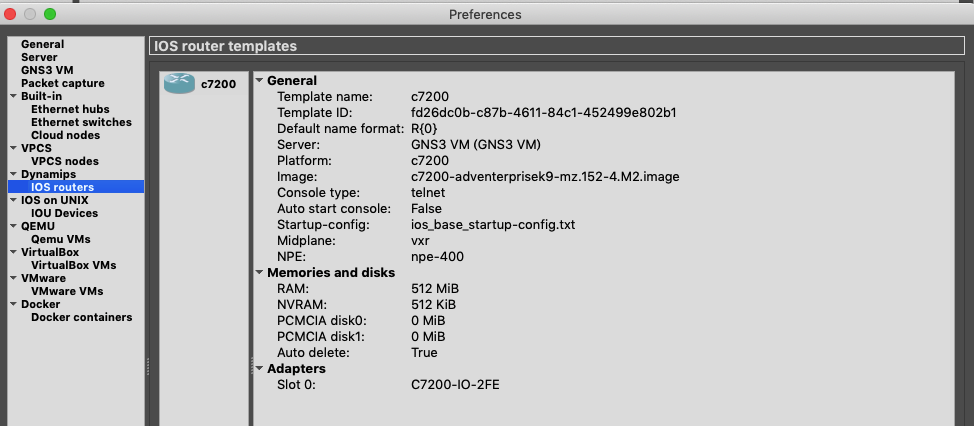
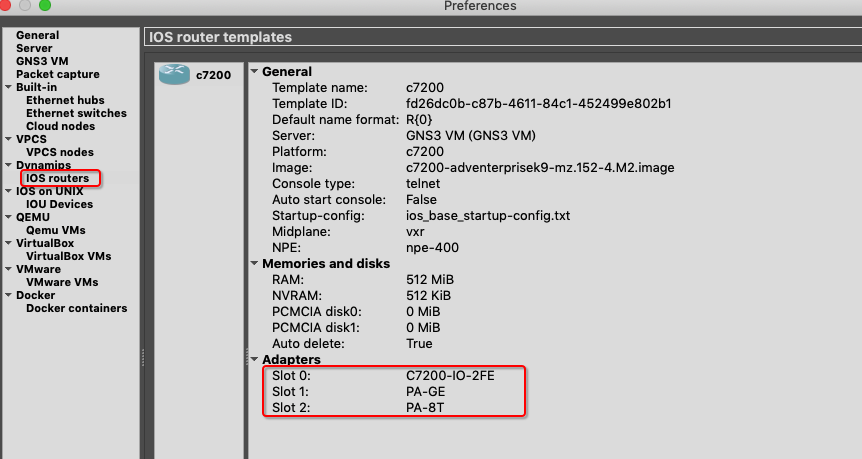
修改 GNS3

Changed region(s): [[0.0, 0.0, 1.0, 1.0]]

diff --git a/Tools/GNS3/Mac下安装GNS3.md b/Tools/GNS3/Mac下安装GNS3.md
@@ -52,7 +52,7 @@
 
 ![](../../Images/Tools/GNS3/install/GNS3_install_image08.png)
 
-点击下一步然后选择下载好的 Cisco 路由器 IOS 镜像。然后一路向下，到选择solts时选C7200-IO-2FE即2个千兆口，以防测试时口不够用，出现这个错误（Can't create the link the destination port is not free），也可后续修改模板。
+点击下一步然后选择下载好的 Cisco 路由器 IOS 镜像。然后一路向下，到选择 solts 时选 C7200-IO-2FE（快速以太网口用于连接交换机）和 PA-8T（串行出口用于和其他路由器相连接），也可后续在偏好设置中修改。
 
 ![](../../Images/Tools/GNS3/install/GNS3_install_image09.png)
 

diff --git a/Netwotk/网络层-动态路由-RIP.md b/Netwotk/网络层-动态路由-RIP.md
@@ -105,6 +105,9 @@ RIP v2：
 
 <br>
 
+## 三、RIP 动态路由实验
+
+
 
 <br>
 
